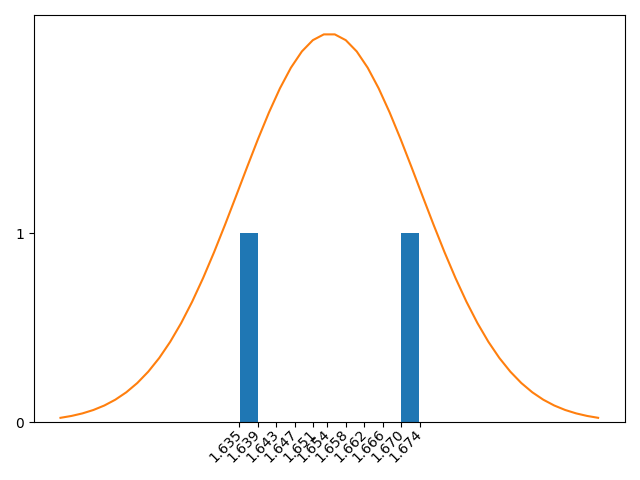
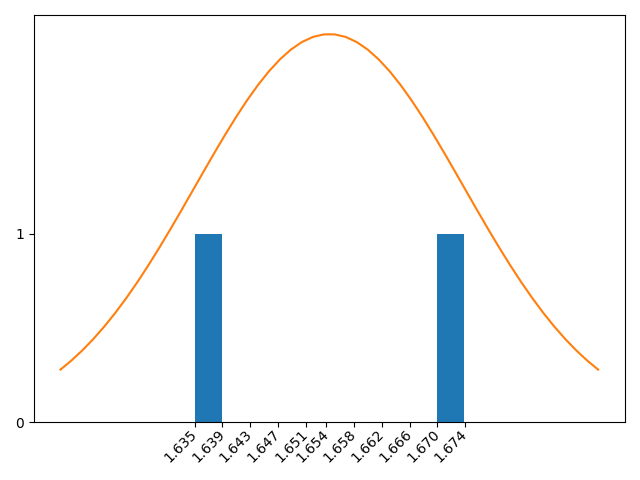
Reduce domain

diff --git a/4b-analyze_pull_ratios.py b/4b-analyze_pull_ratios.py
@@ -45,7 +45,7 @@ def generate_family_info(name, derailleurs):
   plt.savefig(f"pull_ratio_analysis/{name}_pull_ratio_curve.png")
 
   curve = scipy.stats.norm(pull_ratio_avg, pull_ratio_stdev)
-  x = np.linspace(pull_ratio_avg - 3*pull_ratio_stdev, pull_ratio_avg + 3*pull_ratio_stdev)
+  x = np.linspace(pull_ratio_avg - 2*pull_ratio_stdev, pull_ratio_avg + 2*pull_ratio_stdev)
   
   plt.clf()
   hist_counts,bins,_ = plt.hist(per_der_pull_ratios)
